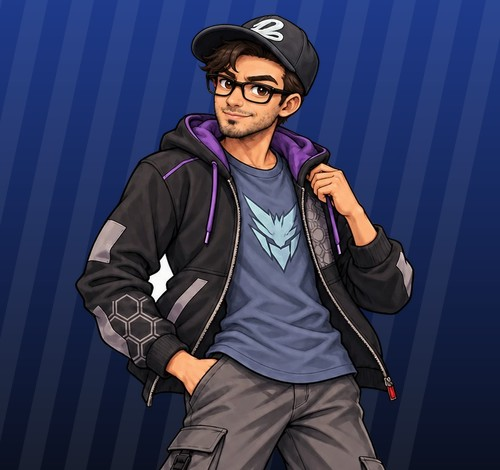
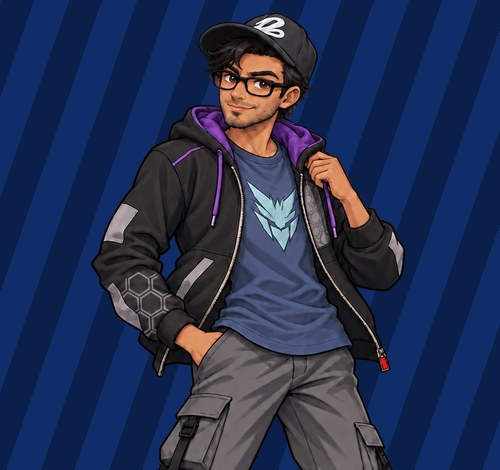
Battle game: Alex's art, for the tutorial and all three rival looks
From the uploaded poses: the tutorial (smiling, hand on hood), and per
phase a VS splash on stripes in the phase colour, a face and the full
body, plus the pose and face for a loss (phase 1 hands in pockets looking
down, phase 2 hand over face, phase 3 shouting). Replaces the stand-ins.

Claude-Session: https://claude.ai/code/session_01F83evgtbjqv7A6X6ifYJLx

diff --git a/public/rpg/game.js b/public/rpg/game.js
@@ -3208,7 +3208,7 @@ const ALEX = {
  * Restores: one in battles 1-4, two in 5 and 6, three in 7.
  */
 const RIVAL_PHASE_OF = [1, 1, 1, 2, 2, 3, 3]
-/** Each phase's look (the art Alex uploads replace), theme and scene. Until a look's art is in, Alex's current art stands in. */
+/** Each phase's look (its art: rival-<phase>-vs.jpg, -face, -body, and -defeated and -face-down for a loss), theme and scene. */
 const RIVAL_LOOKS = {
   1: { theme: 'rival', scene: 'factory', color: '#60a5fa', tellRate: 0.3, ringFast: 0.86, ivs: 20, title: 'RIVAL' },
   2: { theme: 'rival2', scene: 'distortion', color: '#a855f7', tellRate: 0.4, ringFast: 0.82, ivs: 22, title: 'RIVAL' },
@@ -3217,7 +3217,7 @@ const RIVAL_LOOKS = {
 for (const p of [1, 2, 3]) {
   const L = RIVAL_LOOKS[p]
   Object.assign(L, { vs: `rival${p}Vs`, face: `rival${p}Face`, body: `rival${p}Body`, down: `rival${p}Down`, faceDown: `rival${p}FaceDown` })
-  for (const [k, stand] of [['vs', 'alexVs'], ['face', 'alexFace'], ['body', 'alexBody'], ['down', 'alexBody'], ['faceDown', 'alexFace']]) ART[L[k]] ??= ART[stand]
+  for (const [k, file] of [['vs', 'vs.jpg'], ['face', 'face.jpg'], ['body', 'body.png'], ['down', 'defeated.png'], ['faceDown', 'face-down.jpg']]) ART[L[k]] = `/rpg/a/rival-${p}-${file}`
 }
 /** Your progress, as the milestones read it. */
 const rivalProgress = (badges, champion, red = false) => ({ johto: badges.filter((n) => n < 8).length, kanto: badges.filter((n) => n >= 8).length, champion, red })

diff --git a/public/rpg/index.html b/public/rpg/index.html
@@ -1087,6 +1087,6 @@ body.app .wrap { width: min(100%, 440px); padding: calc(52px + env(safe-area-ins
   </div>
 </div>
 
-<script src="/rpg/game.js?v=88fd713599"></script>
+<script src="/rpg/game.js?v=ef2f27ac88"></script>
 </body>
 </html>
